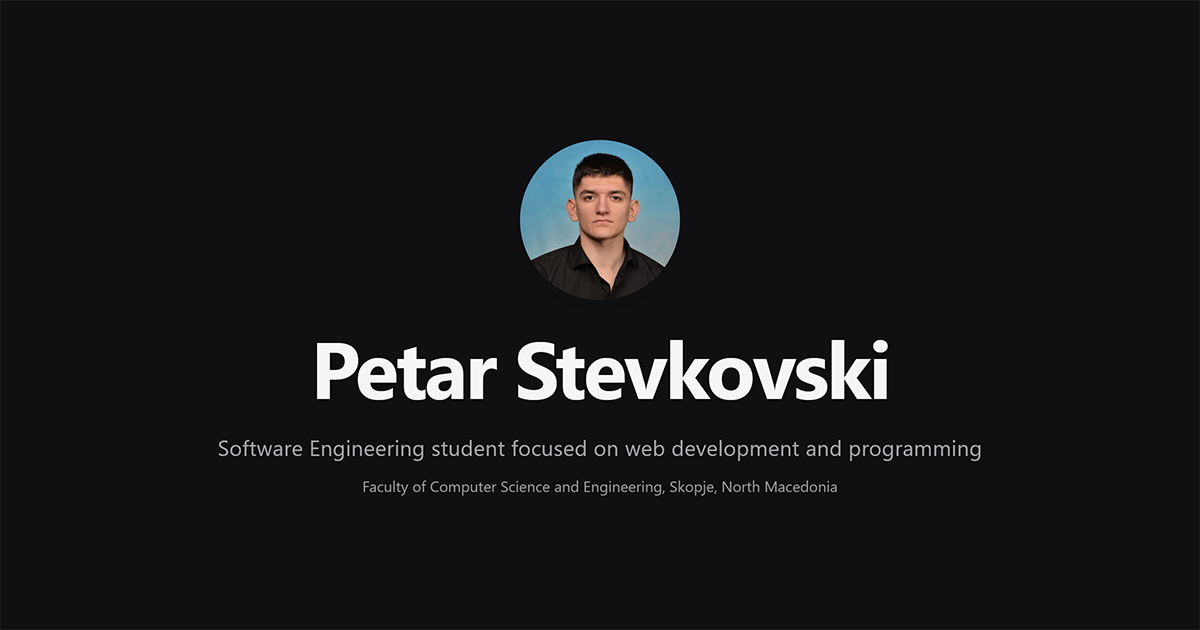
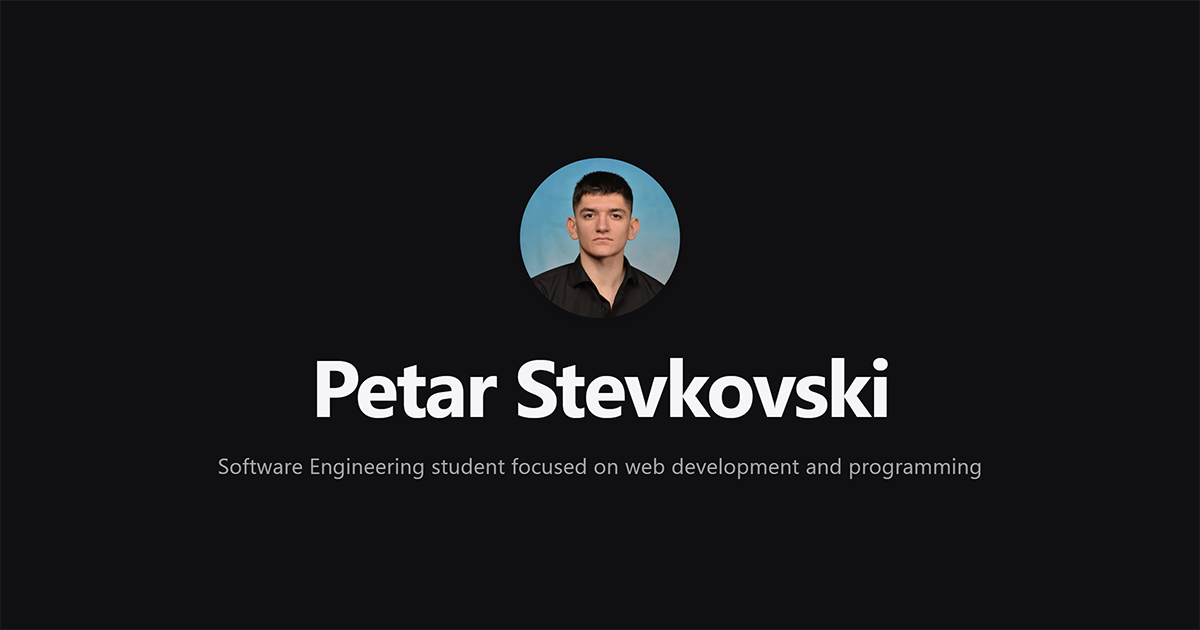
Update wording and og-image

Changed region(s): [[0.2467, 0.5429, 0.74, 0.6635], [0.185, 0.6937, 0.8325, 0.7841], [0.4317, 0.2111, 0.5858, 0.5127]]

diff --git a/index.html b/index.html
@@ -58,7 +58,7 @@
             </div>
             <h1 class="hero-title reveal">Petar Stevkovski</h1>
             <p class="hero-subtitle reveal">Software Engineering student focused on web development and programming</p>
-            <p class="hero-meta reveal">Faculty of Computer Science and Engineering, Skopje, North Macedonia</p>
+            <p class="hero-meta reveal">Faculty of Computer Science and Engineering – Skopje</p>
             <div class="hero-ctas reveal">
                 <a class="btn btn-primary" href="#projects">View projects</a>
                 <a class="btn btn-secondary" href="#contact">Get in touch</a>
